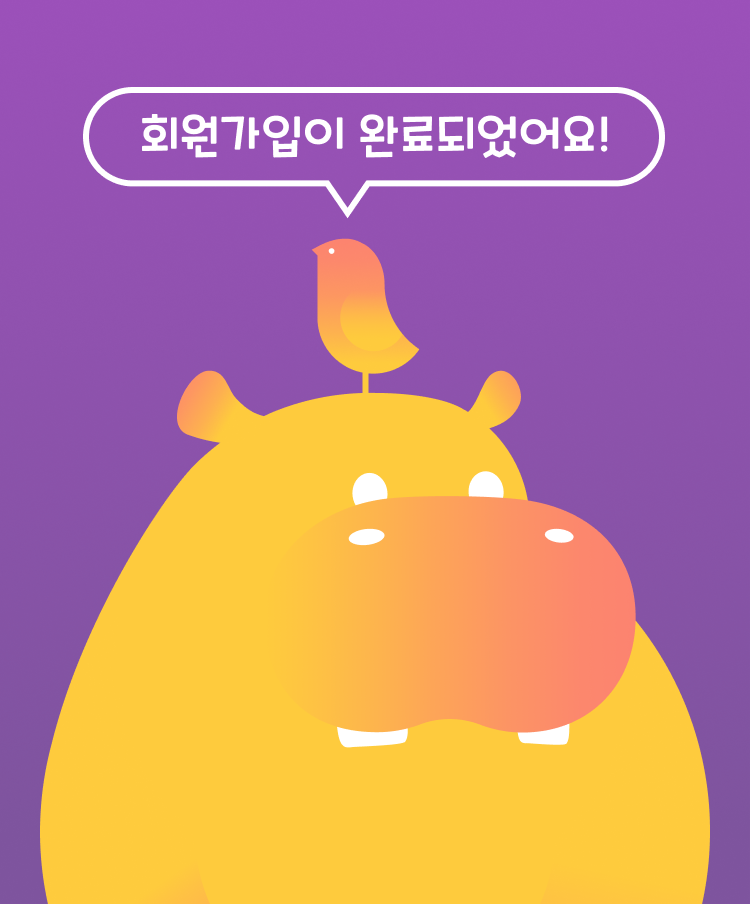
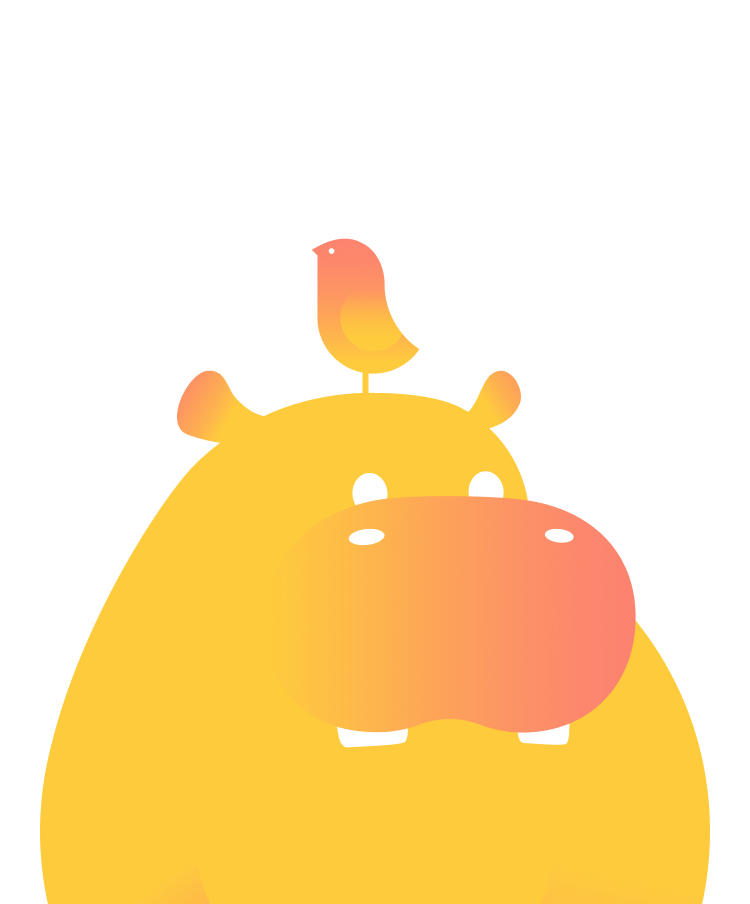
update: 인트로, 회원가입완료 페이지 - layout 조정

diff --git a/src/components/molecules/ImageWithCorner.tsx b/src/components/molecules/ImageWithCorner.tsx
@@ -11,13 +11,15 @@ interface IStyle {
   tailDivStyle: Record<string, unknown>
 }
 export interface IImageWithCorner {
-  height: number
-  width?: number
+  height: number | string
+  width?: number | string
   url?: string
   isRoundTop?: boolean
   radiusSize?: number
   tailRight?: boolean
   dark?: boolean
+  position?: 'top' | 'center' | 'bottom'
+  cover?: boolean
 }
 
 export const ImageWithCorner: FC<IImageWithCorner> = ({
@@ -28,6 +30,8 @@ export const ImageWithCorner: FC<IImageWithCorner> = ({
   radiusSize = 40,
   tailRight = false,
   dark = false,
+  position = 'center',
+  cover = true,
 }) => {
   const { outerDivClass, imageClass, cornerClass, cornerStyle, tailDivClass, tailDivStyle }: IStyle =
     tailRight
@@ -43,14 +47,23 @@ export const ImageWithCorner: FC<IImageWithCorner> = ({
           outerDivClass: 'relative w-full',
           imageClass: `${isRoundTop ? 'br-t-xxlg' : ''} ${dark ? 'dark' : ''}`,
           cornerClass: 'absolute right-0',
-          cornerStyle: { top: height - radiusSize * 2, width: radiusSize, height: radiusSize },
+          cornerStyle: { bottom: radiusSize, width: radiusSize, height: radiusSize },
           tailDivClass: 'z-10 w-full bg-white absolute bottom-0 bottom-radius',
           tailDivStyle: { height: radiusSize, borderTopLeftRadius: radiusSize },
         }
 
   return (
     <div className={outerDivClass}>
-      <ImageBackground style={{ height, width }} url={url} className={imageClass} />
+      <ImageBackground
+        style={{
+          height,
+          width,
+          backgroundSize: cover ? 'cover' : 'contain',
+          backgroundPosition: position,
+        }}
+        url={url}
+        className={imageClass}
+      />
       <img src='/assets/img/corner.svg' style={cornerStyle} className={cornerClass} alt='' />
       <div className={tailDivClass} style={tailDivStyle} />
     </div>

diff --git a/src/pages/sign-up/SignUpCompletePage.tsx b/src/pages/sign-up/SignUpCompletePage.tsx
@@ -1,7 +1,7 @@
 import { IonContent, IonPage } from '@ionic/react'
 import { useEffect } from 'react'
 import { TextBase } from '../../components/atoms/TextBaseComponent'
-import { TextXxxl } from '../../components/atoms/TextXxxlComponent'
+import { TextXxl } from '../../components/atoms/TextXxlComponent'
 import { ImageSlider } from '../../components/molecules/ImageSliderComponent'
 import { useStore } from '../../hooks/use-store'
 import { SIGN_UP_STATUS } from '../../models/sign-up.d'
@@ -21,15 +21,17 @@ export const SignUpCompletePage: React.FC = () => {
   return (
     <IonPage>
       <IonContent>
-        <ImageSlider urls={['/assets/img/hama-signup.png']} height={452}></ImageSlider>
-        <div className='px-6 text-center'>
-          <TextXxxl className='text-bold textprimary'>하마가 당신을 기다리고 있어요!</TextXxxl>
-          <TextBase className='gray text-left mt-6'>
-            맞이할 준비를 마치면
-            <br />
-            하마지기가 안내해 드릴 거에요.
-            <br />
-            잠시 후에 만나요 :)
+        <ImageSlider
+          urls={['/assets/img/hama-signup.png']}
+          bg='/assets/img/bg.png'
+          height='60vh'
+          position='top'
+          cover={false}
+        />
+        <div className='px-8 -mt-2 w-full absolute z-10 keep-word'>
+          <TextXxl className='text-bold textprimary'>하마가 당신을 기다리고 있어요!</TextXxl>
+          <TextBase className='gray mt-6'>
+            맞이 준비를 마치면 하마지기가 알려드릴게요. 잠시 후에 만나요 :)
           </TextBase>
         </div>
       </IonContent>

diff --git a/src/components/molecules/ImageSliderComponent.tsx b/src/components/molecules/ImageSliderComponent.tsx
@@ -5,7 +5,10 @@ import { ImageWithCorner } from './ImageWithCorner'
 
 export interface IImageSlider {
   urls: string[]
-  height?: number
+  height?: number | string
+  bg?: string
+  position?: 'top' | 'center' | 'bottom'
+  cover?: boolean
 }
 
 const slideOpts = {
@@ -13,12 +16,17 @@ const slideOpts = {
   speed: 400,
 }
 
-export const ImageSlider: FC<IImageSlider> = ({ urls, height = 337 }) =>
+export const ImageSlider: FC<IImageSlider> = ({ urls, height = 337, bg, position, cover }) =>
   urls.length ? (
-    <IonSlides key={urls.join('_')} pager={urls.length > 1} options={slideOpts}>
+    <IonSlides
+      key={urls.join('_')}
+      pager={urls.length > 1}
+      options={slideOpts}
+      style={{ backgroundImage: `url(${bg})`, backgroundRepeat: 'no-repeat', backgroundSize: '100% 100%' }}
+    >
       {urls?.map((v, i) => (
         <IonSlide key={i}>
-          <ImageWithCorner height={height} url={v} />
+          <ImageWithCorner height={height} url={v} position={position} cover={cover} />
         </IonSlide>
       ))}
     </IonSlides>

diff --git a/src/pages/IntroPage.tsx b/src/pages/IntroPage.tsx
@@ -20,14 +20,20 @@ export const IntroPage: React.FC = () => {
   return (
     <IonPage>
       <IonContent>
-        <ImageSlider urls={['/assets/img/hama.png']} height={380}></ImageSlider>
-        <div className='px-8'>
+        <ImageSlider
+          urls={['/assets/img/hama-nobg.png']}
+          bg='/assets/img/bg.png'
+          height='55vh'
+          position='bottom'
+          cover={false}
+        />
+        <div className='flex-col flex-none px-8 -mt-3 absolute z-10 keep-word'>
           <TextXxxl className='text-bold textprimary'>
             하나의 마을
             <br />
             하마에 어서오세요!
           </TextXxxl>
-          <TextSm className='gray my-7'>
+          <TextSm className='gray mt-6 leading-9'>
             개인이 모여 하나의 공동체를 이루고
             <br />
             확장되고 연결되어 하나의 마을을 이루고

diff --git a/src/components/atoms/ImageBackgroundComponent.tsx b/src/components/atoms/ImageBackgroundComponent.tsx
@@ -11,8 +11,9 @@ export const ImageBackground: FC<IImageBackground> = ({ className = '', url, sty
     className={`${className ? className : 'w-full height-250'}`}
     style={{
       backgroundImage: `url(${url})`,
-      backgroundSize: 'cover',
-      backgroundPosition: 'center',
+      backgroundSize: style?.backgroundSize || 'cover',
+      backgroundRepeat: 'no-repeat',
+      backgroundPosition: style?.backgroundPosition || 'center',
       ...style,
     }}
   ></div>
